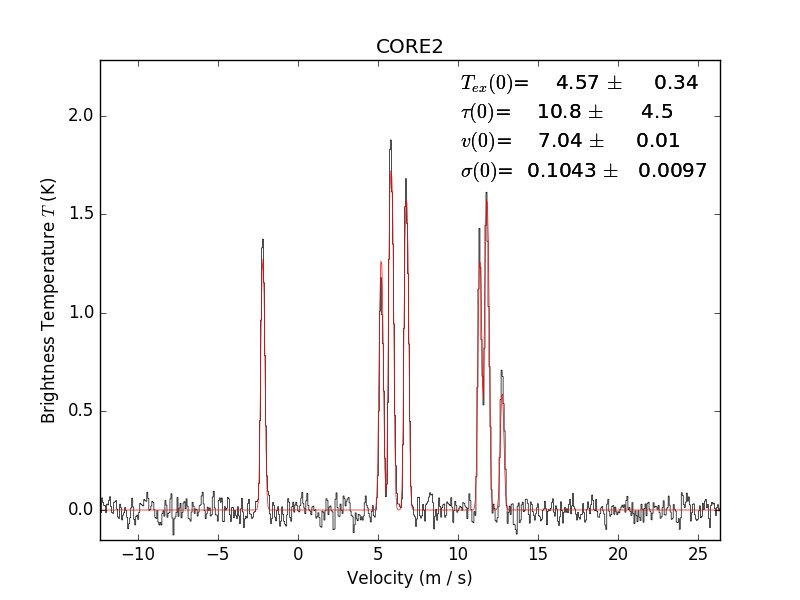
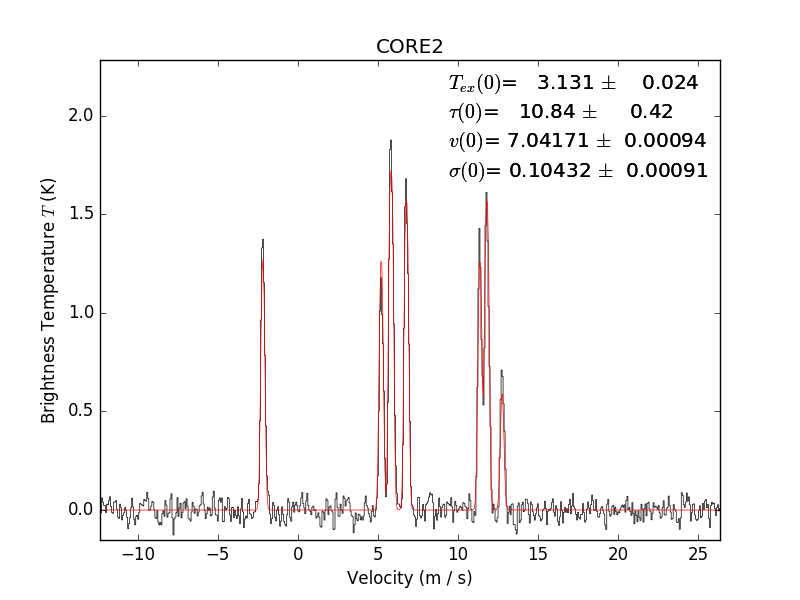
Solved issues
-added better range to calculate rms
-updated figures to reflect updates

Changed region(s): [[0.5625, 0.12, 0.9062, 0.3]]

diff --git a/fit_lineprofilesH.py b/fit_lineprofilesH.py
@@ -22,11 +22,16 @@ cube.xarr.convert_to_unit('km/s')
 xmax=9; ymax=9
 vmin=5.0; vmax=8.0
 
-rms_map = cube.slice(-0.2, 6.6, unit='km/s').cube.std(axis=0)
+
+# This line is wrong, because it is calculating the rms over the channels with emission
+#rms_map = cube.slice(-0.2, 6.6, unit='km/s').cube.std(axis=0) 
+rms_map = cube.slice(15.0, 25.0, unit='km/s').cube.std(axis=0) # 
 peaksnr =  cube.slice(vmin, vmax, unit='km/s').cube.max(axis=0)/rms_map
 planemask = (peaksnr>snr_min) 
 planemask = remove_small_objects(planemask,min_size=40)
 planemask = opening(planemask,disk(1))
+
+print("calculated rms used at position of maximum is {0} K, and it should be 0.042 K".format(rms_map[ymax,ymax]))
 
 F=False
 T=True
